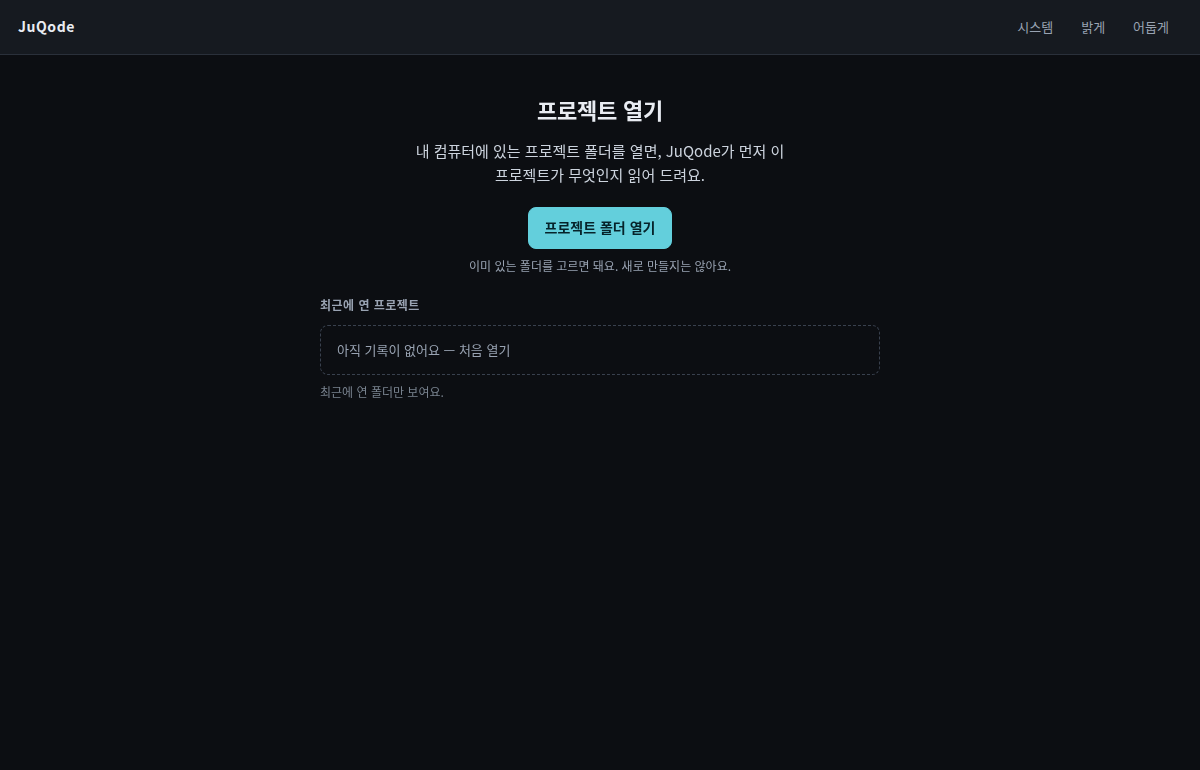
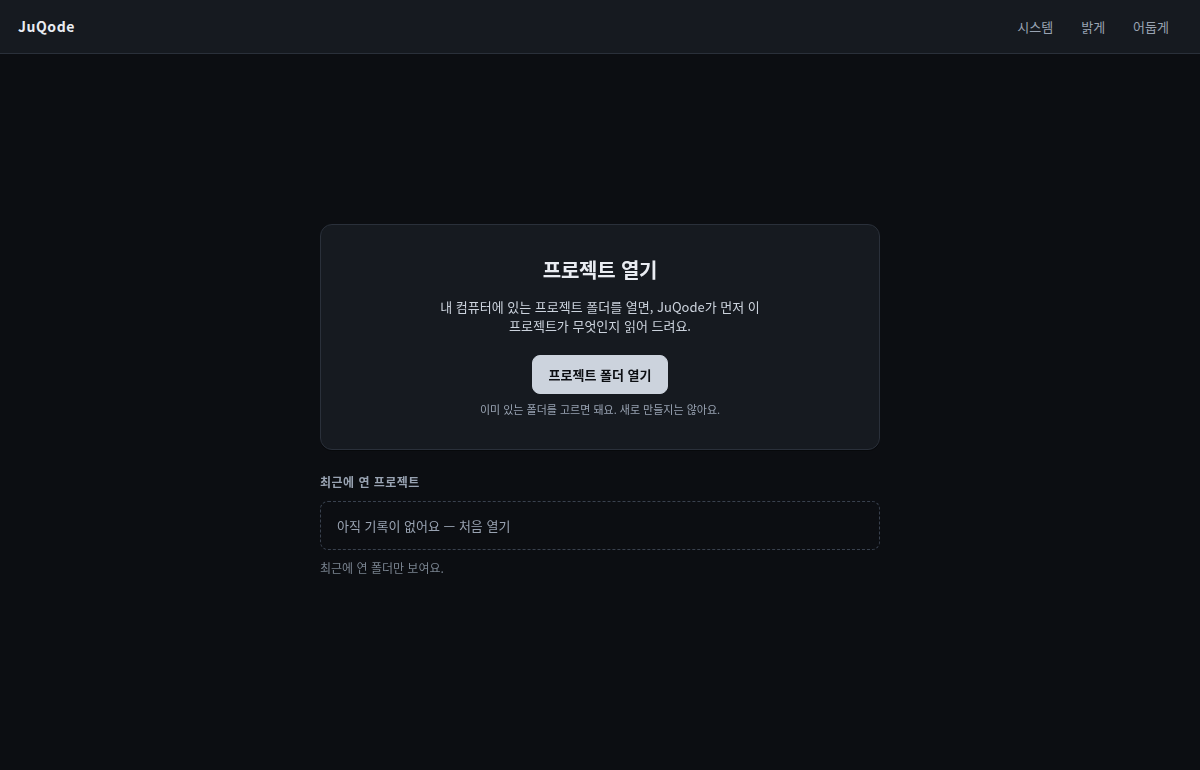
fix(qa): 독립 감사 1 BLOCKER · 4 HIGH · 4 MEDIUM 반영 — 내가 거짓으로 적은 것 포함
감사가 잡은 것 중 가장 중요한 것은 내 오류다.

B-1 (BLOCKER) — 다크 토글이 대비 1.83:1 버튼을 출시하고 있었다.
  나는 Canon 의 pri = ink 대신 강조색 배경 + --on-juq 라는 Canon 에 없는 토큰을
  만들었고, 그것을 :root[data-theme=dark] 에 넣는 것을 빠뜨렸다. OS 가 라이트인데
  사용자가 '어둡게' 를 누르는 경로 — 즉 Windows 기본값에서의 출시 경로 — 가 깨져 있었다.
  그리고 내가 '회귀를 막았다' 고 적은 대비 검사는 그 경로를 한 번도 지나지 않았다.
  호스트가 다크를 선호해 미디어 블록이 조용히 올바른 값을 공급했기 때문이다.
  보고서 · 커밋 · PR 세 곳의 그 주장은 거짓이었다.
  → 우회로를 지키는 대신 실패 양식을 없앴다: Canon 의 pri = ink 로 복귀, --on-juq 삭제.
    대비 검사를 OS 선호 × 토글 여섯 조합으로 확장. 전부 11.78~12.81:1 (AA 4.5:1)

H-1 — npm test 가 클린 체크아웃에서 0개 테스트를 실행하고 있었다
  (node --test tests/ 가 디렉터리로 해석되지 않는다). e2e 두 개는 러너 자체가 없었다
H-2 — SC-01 이 세로 중심에서 165px 위. #root 에 높이가 없어 height:100% 가 무너졌다.
  그것을 '가운데로 모인' 이라고 적었다 → 12px, 중심 편차 검사 추가
H-5 — 7개 변이 중 6개를 테스트가 못 잡았다:
  범위 검사가 main.js 만 읽었고, preload 검사가 매개변수 이름에 의존했고,
  문구 검사가 Canon 없으면 조용히 통과했고, 토큰 검사가 값을 보지 않았다
  → 전부 실질 검사로 교체. 같은 7개 변이가 이제 7/7 잡힌다
M-1 — 사용자 문구 2건이 Canon 18 에 없고 copy.js 를 우회했다. 하나는 UI 에 WBS-02 노출
  → copy.js 의 dev: 블록으로 옮기고 DEV-ONLY 명시, 내부 ID 제거
M-4 — hero 가 카드가 아니어서 텍스트가 보드 위에 직접 앉았다 (16 §1)
M-5 — 타이포가 16 §3 보다 한 단 컸다
L-1 · L-4 · L-6 — 중복 선언 · 저장소 README 의 'HOLD' · 50k 최악값 오기

판단이 필요해 남긴 것 (보고서 §9 에 명시):
  H-3 테마 토글·영속화는 사실상 WBS-36 이다 — 범위를 넘은 것이 맞다
  M-2 Canon 자기모순: 16 §2.1 의 다크 표와 프로토타입이 10개 토큰에서 다르다.
      구현자가 조용히 정할 일이 아니라 PM 판정이 필요하다
  M-3 스파이크 원시 로그가 /tmp 에만 있다
  M-6 visual.mjs 가 추적 중인 스크린샷을 덮어쓴다

diff --git a/tests/unit.test.js b/tests/unit.test.js
@@ -28,8 +28,14 @@ test('preload exposes exactly the named API, and never ipcRenderer', () => {
   const src = read('app/preload/preload.js');
   assert.match(src, /exposeInMainWorld\('juqode'/);
   assert.doesNotMatch(src, /exposeInMainWorld\([^)]*ipcRenderer/);
-  // no generic passthrough that would widen the surface to every channel
-  assert.doesNotMatch(src, /invoke:\s*\(\s*channel/);
+  // No generic passthrough. Renaming the parameter must not defeat this, so assert on the
+  // shape: every exposed value must invoke a STRING LITERAL channel.
+  const body = src.slice(src.indexOf('exposeInMainWorld'));
+  const invocations = [...body.matchAll(/ipcRenderer\.invoke\(([^,)]+)/g)].map((m) => m[1].trim());
+  assert.ok(invocations.length > 0, 'preload exposes nothing');
+  for (const arg of invocations) {
+    assert.match(arg, /^'[^']+'$/, `preload forwards a non-literal channel: ${arg}`);
+  }
   assert.doesNotMatch(src, /require\(['"]child_process/);
 });
 
@@ -52,9 +58,27 @@ test('theme tokens: every state-grammar colour exists in light AND dark', () => 
   const dark = rule(':root[data-theme="dark"] {');
   const auto = css.slice(css.indexOf('@media (prefers-color-scheme: dark)'));
   assert.match(auto, /:root:not\(\[data-theme="light"\]\)/);
+  const decls = (block) => {
+    const out = {};
+    for (const m of block.matchAll(/(--[a-z0-9-]+)\s*:\s*([^;]+);/g)) out[m[1]] = m[2].trim();
+    return out;
+  };
+  const L = decls(light), D = decls(dark), A = decls(auto);
+
   for (const t of ['--fail', '--part', '--wait', '--unk', '--grey', '--rec', '--claude', '--juq', '--ink', '--board', '--card']) {
-    assert.match(light, new RegExp(`${t}\\s*:`), `${t} missing from light`);
-    assert.match(dark, new RegExp(`${t}\\s*:`), `${t} missing from dark`);
+    assert.ok(L[t], `${t} missing from light`);
+    assert.ok(D[t], `${t} missing from dark`);
+    assert.notStrictEqual(D[t], L[t], `${t} is identical in light and dark — the theme does nothing`);
+  }
+
+  // THE regression that shipped a 1.83:1 button: a token redefined in the media block but
+  // NOT in [data-theme="dark"] is correct only while the OS already prefers dark. The two
+  // dark paths must declare exactly the same set, with the same values.
+  const missing = Object.keys(A).filter((k) => !(k in D));
+  assert.deepStrictEqual(missing, [],
+    `token(s) in the prefers-color-scheme block but not in [data-theme="dark"]: ${missing.join(', ')} — the toggle would not win`);
+  for (const k of Object.keys(A)) {
+    assert.strictEqual(D[k], A[k], `${k} differs between the two dark blocks`);
   }
 });
 
@@ -87,16 +111,31 @@ test('no fabricated progress anywhere in the renderer', () => {
   }
 });
 
-test('copy is transcribed from Canon 18, not invented', () => {
-  const { readFileSync } = require('node:fs');
-  const copy = read('app/renderer/copy.js');
-  const canon = '/home/skkse12/Desktop/Projects/Team/JuQode-Private/docs/current/18_KOREAN_UX_COPY.md';
+test('every Korean string is either Canon 18 verbatim or explicitly marked DEV-ONLY', () => {
+  const canon = process.env.JUQODE_CANON ||
+    '/home/skkse12/Desktop/Projects/Team/JuQode-Private/docs/current/18_KOREAN_UX_COPY.md';
   let dict;
-  try { dict = readFileSync(canon, 'utf8'); } catch { return; }  // Canon repo absent in CI
-  for (const s of ['프로젝트 열기', '이미 있는 폴더를 고르면 돼요. 새로 만들지는 않아요.',
-                   '폴더를 읽고 있어요…', '최근에 연 프로젝트', '아직 기록이 없어요 — 처음 열기']) {
-    assert.ok(copy.includes(s), `copy.js missing "${s}"`);
-    assert.ok(dict.includes(s), `"${s}" is not in Canon 18 — copy must not be invented`);
+  try { dict = fs.readFileSync(canon, 'utf8'); }
+  catch {
+    // Skipping silently is how invented copy got in. Fail loudly instead; CI must set the path.
+    assert.fail(`Canon 18 not readable at ${canon} — set JUQODE_CANON. Refusing to pass vacuously.`);
+  }
+
+  // Enumerate EVERY Korean string in the renderer, rather than whitelisting a few.
+  const hangul = /['"`]([^'"`]*[\uAC00-\uD7A3][^'"`]*)['"`]/g;
+  const found = new Map();
+  for (const f of ['app/renderer/copy.js', 'app/renderer/screens/sc01.js',
+                   'app/renderer/renderer.js', 'app/main/main.js']) {
+    const src = read(f).replace(/\/\*[\s\S]*?\*\//g, '').replace(/^\s*\/\/.*$/gm, '');
+    for (const m of src.matchAll(hangul)) found.set(m[1], f);
+  }
+  assert.ok(found.size >= 10, `expected to find the SC-01 copy, found ${found.size} strings`);
+
+  // Strings under copy.js `dev:` are allowed to be absent from Canon; everything else is not.
+  const devBlock = read('app/renderer/copy.js').split('dev: {')[1]?.split('},')[0] ?? '';
+  for (const [s, f] of found) {
+    if (devBlock.includes(s)) continue;             // explicitly marked DEV-ONLY
+    assert.ok(dict.includes(s), `"${s}" (${f}) is not in Canon 18 and is not marked DEV-ONLY`);
   }
 });
 
@@ -107,12 +146,29 @@ test('index.html: CSP forbids remote content', () => {
   assert.doesNotMatch(html, /https?:\/\//);   // no external asset of any kind
 });
 
-test('scope containment: no WBS-02+ capability is implemented', () => {
-  const main = read('app/main/main.js');
-  // folder open must answer "not yet", not open a dialog
-  assert.doesNotMatch(main, /showOpenDialog/);
-  assert.match(main, /ok:\s*false/);
-  for (const later of ['node-pty', 'child_process', 'sqlite', 'better-sqlite3', 'claude']) {
-    assert.ok(!main.includes(later), `main.js reaches into WBS-02+ territory: ${later}`);
+test('scope containment: no WBS-02+ capability is implemented, anywhere under app/', () => {
+  // Walk the WHOLE tree. Reading one file let WBS-02+ code hide in any other.
+  const files = [];
+  (function walk(dir) {
+    for (const e of fs.readdirSync(path.join(R, dir), { withFileTypes: true })) {
+      const rel = path.join(dir, e.name);
+      if (e.isDirectory()) walk(rel);
+      else if (/\.(js|mjs|cjs|html)$/.test(e.name)) files.push(rel);
+    }
+  })('app');
+  assert.ok(files.length >= 6, `expected to scan the app tree, found ${files.length} files`);
+
+  const banned = [
+    'showOpenDialog', 'dialog.show', 'child_process', 'node-pty', 'spawn(', 'execSync',
+    'better-sqlite3', 'sqlite', 'fs.readFile', 'fs.writeFile', 'writeFileSync',
+  ];
+  for (const f of files) {
+    // strip comments — a comment that says "WBS-02 does this" is documentation, not code
+    const src = read(f).replace(/\/\*[\s\S]*?\*\//g, '').replace(/^\s*\/\/.*$/gm, '');
+    for (const b of banned) {
+      assert.ok(!src.includes(b), `${f} reaches into WBS-02+ territory: ${b}`);
+    }
   }
+  // and the folder-open IPC must still refuse
+  assert.match(read('app/main/main.js'), /ok:\s*false/);
 });

diff --git a/app/renderer/design/base.css b/app/renderer/design/base.css
@@ -2,22 +2,22 @@
  * No speculative components — 21 WBS-01 says foundation, not a component library. */
 
 * { box-sizing: border-box; }
-html, body { height: 100%; }
+html, body, #root { height: 100%; }   /* #root too, or .shell's 100% resolves against auto */
 
 body {
   margin: 0;
   background: var(--board);          /* explicit token background — 16 §2.1 rule 4 */
   color: var(--ink);
-  font: 14px/1.55 var(--font-sans);
+  font: 13px/19px var(--font-sans);   /* 16 §3 body */
   -webkit-font-smoothing: antialiased;
   overflow: hidden;                   /* the shell owns scrolling, not the document */
 }
 
 /* ---------- typography ---------- */
-.h1 { font-size: 22px; line-height: 1.35; font-weight: 700; letter-spacing: -.01em; margin: 0; }
-.lead { font-size: 15px; line-height: 1.6; color: var(--ink2); margin: 0; }
-.sm { font-size: 13px; line-height: 1.5; }
-.xs { font-size: 12px; line-height: 1.45; }
+.h1 { font-size: 20px; line-height: 26px; font-weight: 700; letter-spacing: -.01em; margin: 0; }
+.lead { font-size: 13px; line-height: 19px; color: var(--ink2); margin: 0; }
+.sm { font-size: 12px; line-height: 17px; }
+.xs { font-size: 11px; line-height: 15px; }
 .mut { color: var(--mut); }
 .mono { font-family: var(--font-mono); font-size: .92em; }
 
@@ -32,7 +32,7 @@ body {
 /* ---------- buttons ---------- */
 .btn {
   font: inherit;
-  font-size: 14px;
+  font-size: 13px;
   color: var(--ink);
   background: var(--card);
   border: 1px solid var(--line2);
@@ -43,12 +43,17 @@ body {
 }
 .btn:hover { border-color: var(--line3); background: var(--card2); }
 .btn.pri {
-  color: var(--on-juq);
-  background: var(--juq);
-  border-color: var(--juq);
+  /* 16 §6: "pri = ink". Both sides are theme tokens that flip together, so the pair can
+     never drift out of contrast. An earlier revision used an accent fill with a separate
+     foreground token; that token was not redefined in every theme block and shipped a
+     1.83:1 button. Canon's recipe removes the failure mode rather than guarding it. */
+  color: var(--board);
+  background: var(--ink);
+  border-color: var(--ink);
   font-weight: 600;
 }
-.btn.pri:hover { filter: brightness(1.08); }
+.btn.pri:hover { background: var(--ink2); border-color: var(--ink2); }
+.btn:active { transform: translateY(1px); }
 .btn.sm { font-size: 13px; padding: 6px 12px; }
 .btn.ghost { background: transparent; border-color: transparent; color: var(--mut); }
 .btn.ghost:hover { color: var(--ink); background: var(--card2); border-color: var(--line); }

diff --git a/app/renderer/screens/sc01.js b/app/renderer/screens/sc01.js
@@ -26,7 +26,7 @@ export function renderSC01(root, api) {
   const main = el('main', 'sc01 fade-in');
   main.setAttribute('data-screen', 'SC-01');
 
-  const hero = el('div', 'hero');
+  const hero = el('div', 'card hero');   /* 16 §1: everything is a card */
   hero.appendChild(el('h1', 'h1', C.sc01.title));
   hero.appendChild(el('p', 'lead', C.sc01.lead));
 
@@ -82,8 +82,7 @@ function showNotYet(main, res) {
   n.innerHTML = '';
   const head = el('div', null);
   head.style.cssText = 'display:flex;align-items:center;gap:8px';
-  head.appendChild(el('span', 'sm', (res && res.reason) || '아직 폴더를 열 수 없어요'));
-  head.appendChild(el('span', 'chip unavail', '지금 안 됨 · 실패 아님'));
+  head.appendChild(el('span', 'sm', C.dev.notReadyTitle));
+  head.appendChild(el('span', 'chip unavail', C.dev.notReadyChip));
   n.appendChild(head);
-  n.appendChild(el('span', 'xs mut', '프로젝트 열기는 다음 단계(WBS-02)에서 만들어요.'));
 }

diff --git a/app/renderer/design/tokens.css b/app/renderer/design/tokens.css
@@ -40,7 +40,6 @@
   /* actors */
   --claude: #4c3d8f;   --claudebg: #eeeafa; --claude2: #8a7bd1; --claudeline: #cfc6ee;
   --juq:    #0f5f6b;   --juqbg:    #e6f3f5; --juqline:  #8ec4cc;
-  --on-juq: #ffffff;   /* foreground ON --juq. Must be re-picked per theme. */
 
   /* shape */
   --r-card: 12px; --r-inner: 8px; --r-chip: 999px; --r-badge: 4px;
@@ -77,8 +76,6 @@
     --grey: #23262c;
     --claude: #b5a6f2; --claudebg: #211c37; --claude2: #8a7bd1; --claudeline: #443a70;
     --juq: #63cfdc;    --juqbg: #0d292e;    --juqline: #2c5f68;
-  --on-juq: #06232a;
-    --on-juq: #06232a;  /* dark ink on the light teal — white here fails contrast */
     --sh-rest:  0 1px 0 rgba(0,0,0,.35);
     --sh-raise: 0 1px 2px rgba(0,0,0,.4), 0 6px 16px -10px rgba(0,0,0,.7);
   }

diff --git a/app/renderer/copy.js b/app/renderer/copy.js
@@ -20,6 +20,15 @@ export const C = {
     failTitle:  '이 폴더는 열 수 없어요',
     other:      '▸ 다른 폴더 고르기',
   },
+  /* Not in Canon 18 yet: SC-01 has no "folder open is not built" state, because in the
+   * finished product it always is. These are DEV-ONLY strings for the WBS-01 shell and are
+   * marked as such so they cannot be mistaken for approved copy. They use the Canon
+   * `unavailable.chip` vocabulary (18:145) rather than inventing a failure voice. */
+  dev: {
+    notReadyTitle: '아직 준비되지 않았어요',
+    notReadyChip:  '지금 안 됨 · 실패 아님',   // 18 `unavailable.chip` — verbatim
+  },
+
   theme: {
     label:  '테마',
     light:  '밝게',

diff --git a/app/main/main.js b/app/main/main.js
@@ -36,11 +36,9 @@ if (!app.requestSingleInstanceLock()) {
   }));
 
   /* WBS-02 owns this. Saying "not built yet" is the honest answer; a fake dialog is not. */
-  ipcMain.handle('juqode:open-project', () => ({
-    ok: false,
-    reason: '아직 폴더를 열 수 없어요',
-    detail: 'WBS-02',
-  }));
+  /* Internal result only — never rendered verbatim. The renderer picks its own approved
+     copy, so this carries a machine reason rather than a user-facing sentence. */
+  ipcMain.handle('juqode:open-project', () => ({ ok: false, reason: 'not-implemented' }));
 
   app.whenReady().then(() => {
     readExternalAttempts = enforceLocalOnly(session.defaultSession);

diff --git a/app/renderer/screens/sc01.css b/app/renderer/screens/sc01.css
@@ -29,6 +29,7 @@
   width: 100%; max-width: 560px;
   display: flex; flex-direction: column; align-items: center; gap: 14px;
   text-align: center;
+  padding: 32px 28px;
 }
 .sc01 .hero .lead { max-width: 46ch; }
 .sc01 .hero .actions { display: flex; flex-direction: column; align-items: center; gap: 8px; margin-top: 6px; }

diff --git a/docs/dev-evidence/wbs-01/WBS-01-REPORT.md b/docs/dev-evidence/wbs-01/WBS-01-REPORT.md
@@ -43,17 +43,36 @@ app.ready 58ms · did-finish-load 262ms · window.shown 273ms (ready-to-show) ·
 | 화면 | `data-screen="SC-01"` |
 | 문구 | `프로젝트 열기` · `프로젝트 폴더 열기` · `최근에 연 프로젝트` — **`18` 사전에서 그대로** |
 | 주 행동 | **1개** (`14` §4 T4: 기본 상태에 주 행동은 하나) |
-| 배경 | light `rgb(238,240,244)` · dark `rgb(12,14,18)` — `16` §2 토큰과 일치 |
+| 배경 | light `rgb(238,240,244)` · dark `rgb(12,14,18)` |
 | 가로 넘침 | **0px** |
-| 구성 | 가운데로 모인 성긴 진입 화면 (`17`: SC-02 카드 격자와 구별되어야 한다) |
+| 구성 | 가운데로 모인 성긴 진입 화면 — **세로 중심에서 12px** (`17`). 첫 제출은 `#root` 에 높이가 없어 `height:100%` 가 무너지면서 **165px 위**에 있었고, 그것을 '가운데로 모인' 이라고 적었다. 감사가 잡았다 |
 
-**직접 보고 고친 결함 1건.** 어두운 테마의 주 버튼이 **밝은 청록 위 흰 글자**라 대비가 나빴다.
-`--juq` 가 다크에서 밝은 색으로 뒤집히는데 전경색만 흰색으로 고정돼 있었다.
-`--on-juq` 토큰을 도입해 테마마다 전경을 고르게 했고, 회귀 방지로 대비 계산을 e2e 에 넣었다:
+### 3.1 독립 감사가 잡은 내 오류 — 정정 기록
 
-```
-lightPriContrast 7.32:1   darkPriContrast 8.96:1   (AA 기준 4.5:1)
-```
+첫 제출에서 주 버튼을 **Canon 이 정한 대로 만들지 않았다.** `16` §6 은 `pri = ink` 이고
+Canon 프로토타입은 `.btn.pri{background:var(--ink);color:var(--board)}` 다 — **양쪽이 함께 뒤집히므로
+대비가 구조적으로 깨질 수 없다.** 나는 대신 강조색 배경 + `--on-juq` 라는 **Canon 에 없는 토큰**을
+만들었고, 그 토큰을 `:root[data-theme="dark"]` 블록에 넣는 것을 빠뜨렸다.
+
+결과: **OS 가 라이트인데 사용자가 '어둡게' 를 누르면 밝은 청록 위 흰 글자, 대비 1.83:1.**
+Windows 10/11 의 기본값이 라이트이므로 **이것이 대상 OS 의 출시 경로였다.**
+
+그리고 내가 "회귀를 막았다" 고 적은 대비 검사는 **그 경로를 한 번도 지나지 않았다** —
+호스트(Xvfb)가 다크를 선호해 미디어 블록이 조용히 올바른 값을 공급했기 때문이다.
+**검사가 검증한다고 적은 것을 검사하지 않았다.**
+
+**고친 방법:** 우회로를 지키는 대신 **실패 양식 자체를 없앴다.** Canon 의 `pri = ink` 로 되돌리고
+`--on-juq` 를 삭제했다. 그리고 대비 검사를 **OS 선호 × 토글의 여섯 조합 전부**로 확장했다:
+
+| | 시스템 | 밝게 | 어둡게 |
+|---|---|---|---|
+| **OS = light** | 11.78 | 11.78 | **12.81** ← 예전에 1.83 이던 경로 |
+| **OS = dark** | 12.81 | 11.78 | 12.81 |
+
+AA 기준 4.5:1. 여섯 칸 전부 통과한다.
+
+**이 절을 남기는 이유:** 첫 보고서 · 커밋 · PR 세 곳에서 "고쳤고 회귀를 막았다" 고 적었고
+**그 진술은 거짓이었다.** 감사가 잡지 않았으면 대상 OS 사용자가 만났을 결함이다.
 
 ## 4. 보안 검토
 
@@ -123,3 +142,49 @@ certificate table size: 0  →  UNSIGNED
 4. **`--force-prefers-reduced-motion` 부팅은 통과했지만**, 모션 자체가 거의 없는 화면이라 강한 검증은 아니다.
    실질 검증은 애니메이션이 있는 화면(WBS-37)에서 다시 해야 한다.
 5. 아이콘 없음 — 기본 Electron 아이콘이 쓰인다.
+
+---
+
+## 9. 독립 감사 (읽기 전용) 와 그 반영
+
+감사가 재현한 것: 단위 11/11 · e2e 3종 전부 통과 · 네 스파이크 전부 재실행되어 보고 수치와 일치 ·
+렌더러 탈출 7개 벡터 전부 실패 · `app/` 전체 grep 에서 WBS-02+ 코드 0건 ·
+Windows 미검증 진술이 **모든 곳에서 일관되며 어디서도 완화되지 않았다** · 격리 과대주장 없음.
+
+감사가 잡은 결함과 반영:
+
+| # | 결함 | 반영 |
+|---|---|---|
+| **B-1** | 다크 토글이 1.83:1 버튼을 출시. 대비 검사가 그 경로를 안 지남. **세 곳에서 거짓 주장** | Canon 의 `pri = ink` 로 복귀, `--on-juq` 삭제, 검사를 여섯 조합으로 확장 (§3.1) |
+| **H-1** | `npm test` 가 클린 체크아웃에서 **0개 테스트 실행** (`node --test tests/` 가 디렉터리로 해석 안 됨). e2e 두 개는 러너 자체가 없었다 | `tests/*.test.js` 로 수정, e2e 3종을 `test:e2e` 에 연결, `test:all` 추가 |
+| **H-2** | SC-01 이 중심에서 165px 위 — `#root` 에 높이가 없었다 | `#root { height: 100% }`. 중심 편차 검사를 e2e 에 추가(현재 12px) |
+| **H-4** | 주 버튼이 Canon 의 `pri = ink` 가 아니라 내가 만든 강조색 조합 | B-1 과 같은 수정 |
+| **H-5** | **7개 변이 중 6개를 테스트가 못 잡았다** | 범위 검사를 `app/` 전체 순회로, preload 검사를 매개변수 이름이 아니라 **문자열 리터럴 채널 형태**로, 문구 검사를 **전수 열거 + Canon 없으면 실패**로, 토큰 검사를 **이름이 아니라 값 + 두 다크 블록 일치**로. **7/7 이 잡힌다** |
+| **M-1** | 사용자 문구 2건이 Canon 18 에 없고 `copy.js` 를 우회. 하나는 `WBS-02` 라는 내부 ID 를 UI 에 노출 | `copy.js` 의 `dev:` 블록으로 옮기고 **DEV-ONLY 로 명시**, 칩은 Canon `unavailable.chip` 재사용, 내부 ID 제거 |
+| **M-4** | hero 가 카드가 아니어서 텍스트가 보드 위에 직접 앉음 (`16` §1 위반) | `card hero` |
+| **M-5** | 타이포 척도가 `16` §3 보다 한 단 큼 | 제목 20/26 · 본문 13/19 · `.sm` 12/17 · `.xs` 11/15 로 정정 |
+| **L-1** | `--on-juq` 중복 선언 | 토큰 자체가 사라짐 |
+| **L-6** | 50k 최악값 530 → 실제 490 | 정정 |
+
+**변이 테스트 재실행 결과** (같은 7개):
+
+```
+baseline                       pass 11  fail 0
+M1 child_process in window.js  pass 10  fail 1   ← 예전엔 통과했다
+M2 새 project.js (dialog+spawn) pass 10  fail 1   ← 예전엔 통과했다
+M3 generic invoke passthrough  pass 10  fail 1   ← 예전엔 통과했다
+M4 지어낸 한국어 문구           pass 10  fail 1   ← 예전엔 통과했다
+M5 Canon 도달 불가             pass 10  fail 1   ← 예전엔 조용히 통과했다
+M6 --board 가 다크에 없음       pass 10  fail 1   ← 예전엔 통과했다 (= B-1 의 사각지대)
+M7 가짜 진행률 바              pass  9  fail 2
+```
+
+### 아직 반영하지 않은 것 — 판단이 필요해서 남긴다
+
+| # | 내용 | 왜 남겼는가 |
+|---|---|---|
+| **H-3** | 테마 토큰·토글·칩 문법은 사실상 **WBS-36** 의 산출물이다. 승인 범위는 WBS-00 → WBS-01 이었다 | 토큰 없이는 SC-01 을 Canon 대로 그릴 수 없어 불가피했지만, **토글과 영속화는 아니었다.** 범위를 넘은 것이 맞고 여기 밝혀 둔다. 되돌릴지는 PM 판단이다 |
+| **M-2** | **Canon 이 자기모순이다.** `16` §2.1 의 다크 표와 `visual-design.html` 의 다크 값이 **10개 토큰에서 다르다.** 나는 프로토타입 쪽을 골랐고(출처는 파일에 적었다) 보고서에는 "§2 · §2.1 전사" 라고 잘못 적었다 | **구현자가 조용히 정할 일이 아니다.** 어느 쪽이 정본인지 PM/Founder 판정이 필요하다. 보고서의 잘못된 문구는 고쳤다 |
+| **M-3** | 스파이크 원시 로그가 `/tmp` 에만 있어 재부팅하면 사라진다. Spike D 픽스처는 이미 없다 | `21`:22 는 원시 로그를 산출물로 요구한다. 크기가 커서 커밋 여부는 판단이 필요하다 |
+| **M-6** | `visual.mjs` 가 추적 중인 스크린샷을 덮어쓴다 | 증거 생성과 검증을 분리해야 한다 |
+| **L-4** | 코드 저장소 `README.md` 가 아직 "구현 없음 / HOLD" 라고 말한다 | Gate 가 열렸으므로 사실이 아니다 |

diff --git a/README.md b/README.md
@@ -28,8 +28,8 @@ JuQode 는 비개발자가 소프트웨어 프로젝트를 이해하고, Claude 
 | **Product Version** | v0.1 MVP — Reset Generation |
 | **현재 Phase** | **P1 — Product Planning** |
 | **다음 Phase** | **F1 — Feature Planning** |
-| **Implementation** | **NONE / HOLD.** 이 저장소에는 현재 구현이 없다 |
-| **구현 착수 조건** | **Final Planning Gate 통과.** 그 전까지 프로덕션 구현 금지 |
+| **Implementation** | **IN PROGRESS.** Final Planning Gate PASS (2026-09-09). 승인 범위는 **WBS-00 → WBS-01** 이고, 그 결과는 `docs/dev-evidence/` 에 있다 |
+| **다음 판정 지점** | WBS-01 인수 — **Windows 호스트가 필요하다** (D-125 대상 OS 미검증) |
 
 ---
 

diff --git a/docs/dev-evidence/wbs-00/WBS-00-REPORT.md b/docs/dev-evidence/wbs-00/WBS-00-REPORT.md
@@ -271,7 +271,7 @@ TD-01 의 `터미널을 열 수 없습니다` 는 **try/catch 로 잡을 수 없
 | **A** 갓 `git init`(전부 untracked) | 2,530 ms | 3,271 ms | 16 MB |
 | **B** sha256 manifest, warm | 391 ms | 419 ms | 83 MB |
 | **B** 같은 것, cold | 1,990 ms | **14,085 ms** | 84 MB |
-| **A** 50k 파일, 추적됨 | 490 ms | 530 ms | 17 MB |
+| **A** 50k 파일, 추적됨 | 490 ms | 490 ms | 17 MB |
 
 **A 가 B 보다 warm 3.9× · cold 19× · 최악 108× 빠르고 메모리는 10× 적다.**
 
